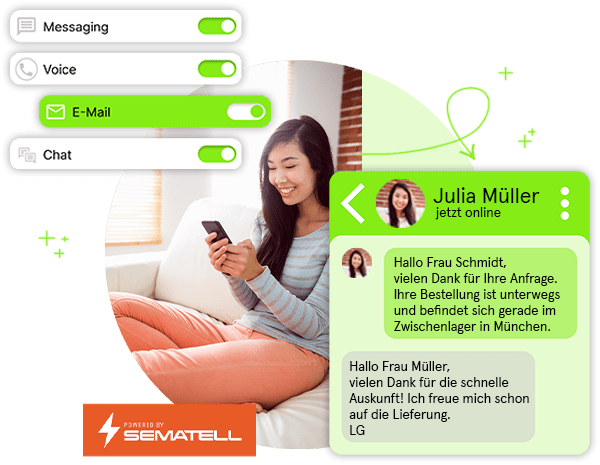
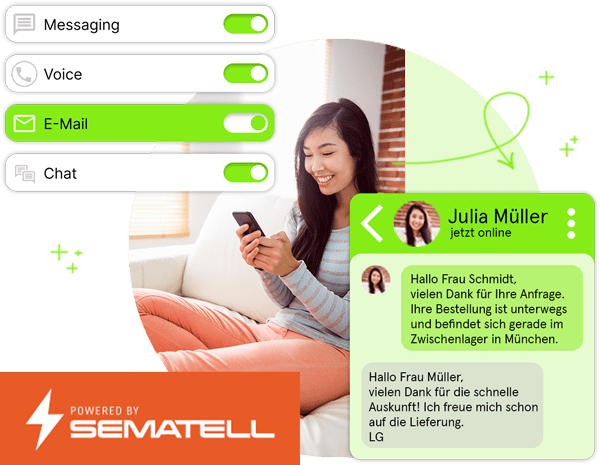
Changed sematell hero image, added 2x version

diff --git a/src/views/de/omnichannel-callcenter.php b/src/views/de/omnichannel-callcenter.php
@@ -41,7 +41,7 @@ $faqs->faq_add (
 			</p>
 		</div>
 		<div class="hero__image">
-			<img src="/assets/images/illus/hero-sematell.png" alt="CallOne Omnichannel Callcenter" width="465" height="360" />
+			<img srcset="/assets/images/illus/hero-sematell@2x.png 2x" src="/assets/images/illus/hero-sematell.png" alt="CallOne Omnichannel Callcenter" width="465" height="360" />
 		</div>
 	</div>
 
